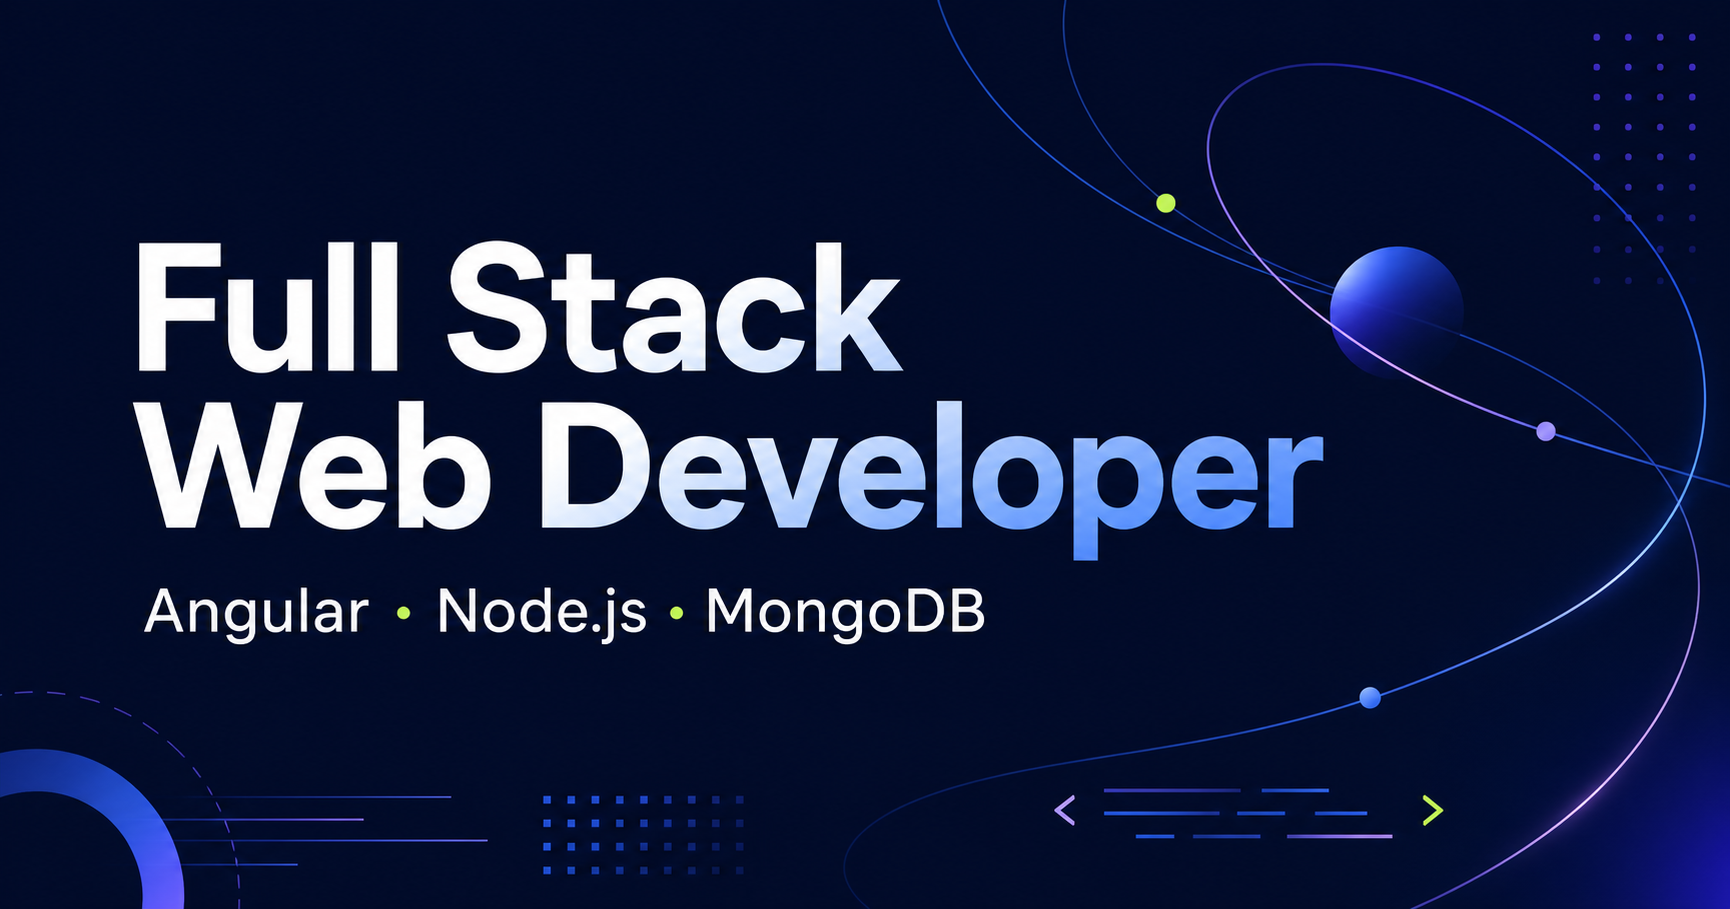
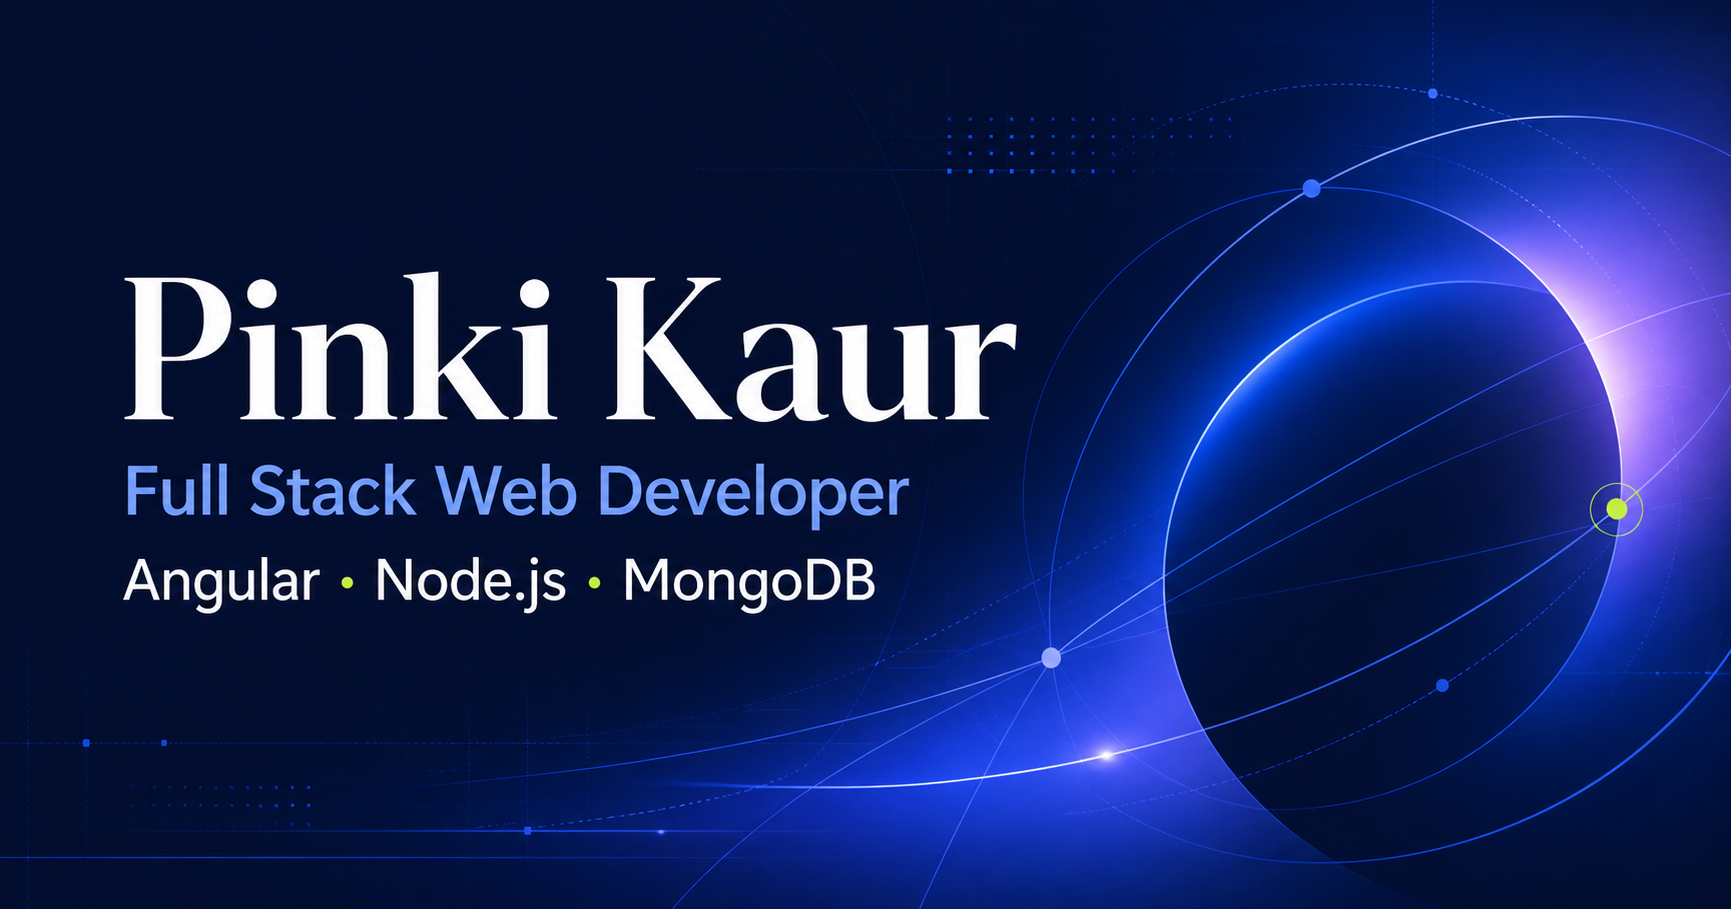
Personalize portfolio with experience projects and education

diff --git a/app/page.tsx b/app/page.tsx
@@ -7,39 +7,49 @@ const skills = [
 export default function Home() {
   return <main>
     <nav className="nav shell" aria-label="Main navigation">
-      <a className="brand" href="#top"><span>FS</span><b>Portfolio</b></a>
-      <div className="navLinks"><a href="#about">About</a><a href="#experience">Experience</a><a href="#skills">Skills</a></div>
+      <a className="brand" href="#top"><span>PK</span><b>Pinki Kaur</b></a>
+      <div className="navLinks"><a href="#about">About</a><a href="#experience">Experience</a><a href="#projects">Projects</a><a href="#skills">Skills</a></div>
       <a className="navCta" href="#contact">Let&apos;s talk <span>↗</span></a>
     </nav>
 
     <section className="hero shell" id="top">
       <div className="heroCopy">
-        <div className="eyebrow"><i /> Available for meaningful opportunities</div>
+        <div className="eyebrow"><i /> Bathinda, Punjab · Full Stack Web Developer</div>
+        <p className="heroName">Hello, I&apos;m Pinki Kaur.</p>
         <h1>I build web<br />experiences that<br /><em>work beautifully.</em></h1>
         <p className="intro">Full Stack Web Developer specializing in Angular, Node.js and MongoDB—turning complex requirements into clean, dependable products.</p>
         <div className="heroActions"><a className="primaryBtn" href="#experience">Explore my journey <span>↓</span></a><a className="textLink" href="#contact">Get in touch <span>↗</span></a></div>
-        <div className="quickFacts"><div><strong>3+</strong><span>Years in tech</span></div><div><strong>2024</strong><span>Promoted to<br />Full Stack Developer</span></div></div>
+        <div className="quickFacts"><div><strong>3+</strong><span>Years of industry<br />experience</span></div><div><strong>2024</strong><span>Promoted to<br />Full Stack Developer</span></div></div>
       </div>
       <div className="heroVisual" aria-label="Full stack technology overview">
         <div className="orbit orbitOne" /><div className="orbit orbitTwo" />
-        <div className="codeCard"><div className="codeTop"><span><i /><i /><i /></span><b>developer.ts</b><small>⌁</small></div><pre><span className="purple">const</span> developer = {'{'}{`\n`}  role: <span className="green">&quot;Full Stack&quot;</span>,{`\n`}  builds: [<span className="green">&quot;web&quot;</span>, <span className="green">&quot;APIs&quot;</span>],{`\n`}  mindset: <span className="green">&quot;always learning&quot;</span>{`\n`}{'}'};</pre><div className="terminal"><span>●</span> SYSTEM STATUS <b>READY TO BUILD_</b></div></div>
+        <div className="codeCard"><div className="codeTop"><span><i /><i /><i /></span><b>pinki-kaur.ts</b><small>⌁</small></div><pre><span className="purple">const</span> developer = {'{'}{`\n`}  role: <span className="green">&quot;Full Stack&quot;</span>,{`\n`}  builds: [<span className="green">&quot;web&quot;</span>, <span className="green">&quot;APIs&quot;</span>],{`\n`}  mindset: <span className="green">&quot;always learning&quot;</span>{`\n`}{'}'};</pre><div className="terminal"><span>●</span> SYSTEM STATUS <b>READY TO BUILD_</b></div></div>
         <div className="techPill pillAngular"><b>A</b><span>Angular<small>Frontend</small></span></div><div className="techPill pillNode"><b>JS</b><span>Node.js<small>Backend</small></span></div><div className="techPill pillMongo"><b>◆</b><span>MongoDB<small>Database</small></span></div><div className="floatingTag">FULL STACK</div>
       </div>
     </section>
 
     <section className="marquee" aria-label="Core strengths"><div>ANGULAR <b>✦</b> NODE.JS <b>✦</b> MONGODB <b>✦</b> REST APIS <b>✦</b> RESPONSIVE WEB <b>✦</b> CLEAN CODE <b>✦</b></div></section>
 
-    <section className="about shell section" id="about"><div className="sectionLabel">01 / ABOUT</div><div className="aboutGrid"><h2>From curious trainee<br />to <em>full stack builder.</em></h2><div className="bodyCopy"><p>My journey began with hands-on technical training during college. In my seventh semester, I earned an internship opportunity in Delhi and stepped into the industry as a Software Trainee.</p><p>Today, I work across the web stack—building interfaces with Angular, developing server-side functionality with Node.js, and working with MongoDB. I care about thoughtful solutions, dependable delivery, and learning with every project.</p></div></div></section>
+    <section className="about shell section" id="about"><div className="sectionLabel">01 / ABOUT</div><div className="aboutGrid"><h2>From curious trainee<br />to <em>full stack builder.</em></h2><div className="bodyCopy"><p>I&apos;m Pinki Kaur, a Full Stack Web Developer based in Bathinda, Punjab. My journey began with hands-on technical training during college, followed by a six-month Software Trainee internship at Step2Gen Pvt. Ltd.</p><p>Today at Idcle Tech LLP, I build web applications across the stack—creating interfaces with Angular, developing server-side functionality with Node.js, and working with MongoDB. I value thoughtful solutions, dependable delivery, team collaboration, and continuous learning.</p></div></div></section>
 
     <section className="experience section" id="experience"><div className="shell"><div className="sectionLabel light">02 / EXPERIENCE</div><div className="sectionHeading"><h2>A journey of<br /><em>steady growth.</em></h2><p>Every role has added another layer to how I think, build, and collaborate.</p></div><div className="timeline">
-      <article className="role current"><div className="date">JUL 2024 — PRESENT</div><div className="dot" /><div className="roleBody"><span className="badge">CURRENT ROLE</span><h3>Full Stack Web Developer</h3><h4>Current Company</h4><p>Promoted after a year of consistent delivery. Building and maintaining full-stack web applications with Angular, Node.js, and MongoDB.</p><div className="tags"><span>Angular</span><span>Node.js</span><span>MongoDB</span><span>APIs</span></div></div></article>
-      <article className="role"><div className="date">JUL 2023 — JUN 2024</div><div className="dot" /><div className="roleBody"><h3>Junior Web Developer</h3><h4>Current Company</h4><p>Joined the development team, contributed to real-world web products, and built a strong foundation in frontend and backend development.</p></div></article>
-      <article className="role"><div className="date">7TH SEMESTER</div><div className="dot" /><div className="roleBody"><h3>Software Trainee Intern</h3><h4>Stepzil Private Limited · Delhi</h4><p>Selected during college for an industry internship, gaining practical exposure to software development and professional team workflows.</p></div></article>
+      <article className="role current"><div className="date">JUL 2024 — PRESENT</div><div className="dot" /><div className="roleBody"><span className="badge">CURRENT ROLE</span><h3>Full Stack Web Developer</h3><h4>Idcle Tech LLP</h4><p>Promoted after a year of consistent delivery. Building and maintaining full-stack web applications with Angular, Node.js, MongoDB, and REST APIs.</p><div className="tags"><span>Angular</span><span>Node.js</span><span>MongoDB</span><span>REST APIs</span></div></div></article>
+      <article className="role"><div className="date">JUL 2023 — JUN 2024</div><div className="dot" /><div className="roleBody"><h3>Junior Web Developer</h3><h4>Idcle Tech LLP</h4><p>Contributed to production web applications and established a strong foundation in frontend development, backend services, databases, and collaborative delivery.</p></div></article>
+      <article className="role"><div className="date">JAN — JUL 2023</div><div className="dot" /><div className="roleBody"><h3>Software Trainee</h3><h4>Step2Gen Pvt. Ltd.</h4><p>Completed a six-month industry internship from 2 January to 2 July 2023, gaining practical experience in software development and professional team workflows.</p></div></article>
     </div></div></section>
 
-    <section className="skills shell section" id="skills"><div className="sectionLabel">03 / TOOLKIT</div><div className="skillsHeading"><h2>Tools I use to turn<br />ideas into <em>products.</em></h2><p>Deepening my core stack every day, while steadily expanding into adjacent technologies.</p></div><div className="skillGrid">{skills.map((skill,i)=><article key={skill.name}><span>0{i+1}</span><div className={`skillIcon s${i}`}>{skill.name.slice(0,2)}</div><h3>{skill.name}</h3><p>{skill.level}</p></article>)}</div></section>
+    <section className="projects shell section" id="projects"><div className="sectionLabel">03 / SELECTED PROJECTS</div><div className="projectsHeading"><h2>Products shaped by<br /><em>real-world needs.</em></h2><p>Full-stack work spanning inventory, education, customer relationships, and small-business experiences.</p></div><div className="projectGrid">
+      <article className="projectCard featured"><div className="projectTop"><span>01</span><b>FULL STACK</b></div><h3>EnterCraft</h3><p>An inventory management system designed to organize products, stock, and operational data. Contributed across both the frontend and backend.</p><div className="tags inkTags"><span>Angular</span><span>Node.js</span><span>MongoDB</span></div></article>
+      <article className="projectCard"><div className="projectTop"><span>02</span><b>TEAM PROJECT</b></div><h3>IntelliCraft</h3><p>A school management system built with a four-member team. Worked across the frontend and backend to support day-to-day academic workflows.</p><div className="tags inkTags"><span>Full Stack</span><span>Teamwork</span><span>APIs</span></div></article>
+      <article className="projectCard"><div className="projectTop"><span>03</span><b>INDEPENDENT BUILD</b></div><h3>CRM Platform</h3><p>Designed and developed from scratch as an independent learning project, exploring practical customer-management workflows and full-stack architecture.</p><div className="tags inkTags"><span>From Scratch</span><span>Full Stack</span><span>Learning</span></div></article>
+      <article className="projectCard smallBuilds"><div className="projectTop"><span>04</span><b>SMALL BUILDS</b></div><h3>Boutique & More</h3><p>A collection of smaller web projects, including a boutique experience, created to practice responsive interfaces and end-to-end development.</p><div className="tags inkTags"><span>Responsive Web</span><span>UI</span></div></article>
+    </div></section>
 
-    <section className="contact shell" id="contact"><span className="contactKicker">HAVE A PROJECT OR OPPORTUNITY?</span><h2>Let&apos;s build something<br /><em>worth using.</em></h2><p>I&apos;m always open to thoughtful conversations, challenging work, and opportunities to grow.</p><a href="mailto:your.email@example.com">Start a conversation <span>↗</span></a><small>Replace the email above with your preferred contact address.</small></section>
-    <footer className="shell"><div className="brand"><span>FS</span><b>Portfolio</b></div><p>Full Stack Web Developer · Built with care</p><a href="#top">Back to top ↑</a></footer>
+    <section className="credentials section"><div className="shell"><div className="sectionLabel">04 / EDUCATION & TRAINING</div><div className="credentialGrid"><article className="educationCard"><span>2019 — 2023</span><h2>B.Tech in Computer Science &amp; Engineering</h2><h3>Baba Farid College of Engineering and Technology, Deon</h3><p>A four-year foundation in computer science, software engineering, problem solving, and modern development practices.</p></article><div className="trainingList"><h3>Professional Training</h3><article><span>01</span><div><h4>Full Stack Development with Node.js</h4><p>Bangalore Computer Education</p></div></article><article><span>02</span><div><h4>Data Structures and Algorithms</h4><p>Bangalore Computer Education</p></div></article><article><span>03</span><div><h4>Web Development</h4><p>Solitaire Infosys Private Limited</p></div></article></div></div></div></section>
+
+    <section className="skills shell section" id="skills"><div className="sectionLabel">05 / TOOLKIT</div><div className="skillsHeading"><h2>Tools I use to turn<br />ideas into <em>products.</em></h2><p>Deepening my core stack every day, while steadily expanding into adjacent technologies.</p></div><div className="skillGrid">{skills.map((skill,i)=><article key={skill.name}><span>0{i+1}</span><div className={`skillIcon s${i}`}>{skill.name.slice(0,2)}</div><h3>{skill.name}</h3><p>{skill.level}</p></article>)}</div></section>
+
+    <section className="contact shell" id="contact"><span className="contactKicker">HAVE A PROJECT OR OPPORTUNITY?</span><h2>Let&apos;s build something<br /><em>worth using.</em></h2><p>I&apos;m open to thoughtful conversations, challenging work, and opportunities to grow.</p><div className="contactActions"><a className="emailBtn" href="mailto:pinkukaur0803@gmail.com">Email me <span>↗</span></a><a className="phoneLink" href="tel:+918289028136">+91 82890 28136</a></div><small>Bathinda, Punjab · Available by email or phone</small></section>
+    <footer className="shell"><div className="brand"><span>PK</span><b>Pinki Kaur</b></div><p>Full Stack Web Developer · Bathinda, Punjab</p><a href="#top">Back to top ↑</a></footer>
   </main>;
 }

diff --git a/app/globals.css b/app/globals.css
@@ -3,3 +3,8 @@
 @media(max-width:900px){.navLinks{display:none}.hero{grid-template-columns:1fr;padding-top:70px}.heroVisual{height:500px}.aboutGrid,.skillsHeading,.sectionHeading{display:block}.bodyCopy{padding-top:10px}.sectionHeading>p,.skillsHeading>p{margin-top:20px}.skillGrid{grid-template-columns:repeat(2,1fr)}}
 @media(max-width:600px){.shell{width:min(100% - 30px,1180px)}.nav{height:72px}.navCta{padding:10px 12px}.hero{padding-top:55px;gap:10px}.hero h1{font-size:47px}.intro{font-size:15px}.quickFacts{gap:28px}.heroVisual{height:430px;transform:scale(.86);margin-inline:-25px}.codeCard{width:340px}.techPill{min-width:118px}.pillAngular{left:-2px}.pillNode{right:-3px}.section{padding-block:80px}.about h2,.sectionHeading h2,.skillsHeading h2,.contact h2{font-size:40px}.timeline:before{left:7px}.role{grid-template-columns:30px 1fr}.date{grid-column:2;font-size:9px;margin-bottom:15px}.dot{grid-column:1;grid-row:1 / span 2}.dot:before{left:1px}.roleBody{grid-column:2}.skillGrid{grid-template-columns:1fr}.contact{width:calc(100% - 30px);padding:75px 20px}footer{height:auto;padding-block:28px;gap:20px;flex-wrap:wrap}footer p{order:3;width:100%}}
 @media(prefers-reduced-motion:reduce){html{scroll-behavior:auto}.marquee div{animation:none}}
+
+/* Personalized portfolio sections */
+.heroName{margin:19px 0 -13px;color:var(--blue);font:600 12px var(--font-mono);letter-spacing:.04em}.projectsHeading{display:flex;justify-content:space-between;align-items:end;margin:44px 0 60px}.projectsHeading h2{font-size:53px;line-height:1.04;letter-spacing:-.06em;margin:0}.projectsHeading h2 em{font-family:Georgia,serif;font-weight:400;color:var(--blue)}.projectsHeading>p{max-width:360px;color:var(--muted);line-height:1.7;font-size:14px}.projectGrid{display:grid;grid-template-columns:repeat(2,1fr);gap:16px}.projectCard{min-height:315px;border:1px solid var(--line);border-radius:16px;padding:32px;display:flex;flex-direction:column;background:#fff;transition:transform .25s,box-shadow .25s}.projectCard:hover{transform:translateY(-4px);box-shadow:0 18px 45px #19345b14}.projectCard.featured{background:#f0f5ff;border-color:#cddcff}.projectCard.smallBuilds{background:#f8fafc}.projectTop{display:flex;justify-content:space-between;align-items:center}.projectTop span{font:600 10px var(--font-mono);color:#8c98a9}.projectTop b{font:600 8px var(--font-mono);letter-spacing:.08em;color:var(--blue);background:#e5edff;border-radius:20px;padding:6px 9px}.projectCard h3{font-size:27px;letter-spacing:-.035em;margin:50px 0 13px}.projectCard>p{color:var(--muted);font-size:13px;line-height:1.8;max-width:470px;margin:0}.inkTags{margin-top:auto;padding-top:28px}.inkTags span{border-color:#cbd3df;color:#526075;background:#fff}.credentials{background:#f5f7fa}.credentialGrid{display:grid;grid-template-columns:1.05fr .95fr;gap:90px;padding-top:65px}.educationCard>span{font:600 10px var(--font-mono);color:var(--blue);letter-spacing:.08em}.educationCard h2{font-size:39px;line-height:1.13;margin:24px 0 17px;letter-spacing:-.045em}.educationCard h3{font:600 11px/1.6 var(--font-mono);color:#526075;text-transform:uppercase;letter-spacing:.04em;max-width:500px}.educationCard p{color:var(--muted);font-size:13px;line-height:1.8;max-width:500px;margin-top:25px}.trainingList>h3{font-size:14px;margin:0 0 25px}.trainingList article{display:grid;grid-template-columns:42px 1fr;border-top:1px solid #d7dde6;padding:22px 0}.trainingList article>span{font:500 9px var(--font-mono);color:#9aa4b3}.trainingList h4{font-size:14px;margin:0 0 6px}.trainingList p{font:500 9px var(--font-mono);color:#748195;text-transform:uppercase;margin:0;letter-spacing:.04em}.contactActions{display:flex;justify-content:center;align-items:center;gap:24px;margin-top:25px;position:relative;z-index:1}.contact .emailBtn{display:inline-block;background:var(--blue);color:#fff;border-radius:8px;padding:15px 19px;font-size:13px;font-weight:800}.contact .emailBtn span{margin-left:20px}.phoneLink{font:700 12px var(--font-mono);border-bottom:1px solid #8592a5;padding-bottom:5px}.contact small{margin-top:18px}
+@media(max-width:900px){.projectsHeading{display:block}.projectsHeading>p{margin-top:20px}.credentialGrid{grid-template-columns:1fr;gap:55px}}
+@media(max-width:600px){.heroName{margin-top:16px}.projectsHeading h2{font-size:40px}.projectGrid{grid-template-columns:1fr}.projectCard{min-height:285px;padding:25px}.projectCard h3{margin-top:38px}.credentialGrid{padding-top:45px}.educationCard h2{font-size:32px}.contactActions{flex-direction:column;gap:18px}}

diff --git a/app/layout.tsx b/app/layout.tsx
@@ -6,17 +6,17 @@ const manrope = Manrope({ variable: '--font-manrope', subsets: ['latin'] });
 const mono = DM_Mono({ variable: '--font-mono', weight: ['300','400','500'], subsets: ['latin'] });
 
 export const metadata: Metadata = {
-  title: 'Full Stack Web Developer | Portfolio',
-  description: 'Portfolio of a Full Stack Web Developer specializing in Angular, Node.js, and MongoDB.',
-  metadataBase: new URL(process.env.SITE_URL ?? 'http://localhost:3000'),
+  metadataBase: new URL('https://full-stack-developer-portfolio.pinkukaur0803.chatgpt.site'),
+  title: 'Pinki Kaur | Full Stack Web Developer',
+  description: 'Portfolio of Pinki Kaur, a Full Stack Web Developer specializing in Angular, Node.js, and MongoDB.',
   openGraph: {
-    title: 'Full Stack Web Developer',
+    title: 'Pinki Kaur | Full Stack Web Developer',
     description: 'Angular · Node.js · MongoDB',
-    images: [{ url: '/og.png', width: 1536, height: 1024, alt: 'Full Stack Web Developer portfolio' }],
+    images: [{ url: '/og.png', width: 1536, height: 1024, alt: 'Pinki Kaur — Full Stack Web Developer' }],
   },
   twitter: {
     card: 'summary_large_image',
-    title: 'Full Stack Web Developer',
+    title: 'Pinki Kaur | Full Stack Web Developer',
     description: 'Angular · Node.js · MongoDB',
     images: ['/og.png'],
   },
